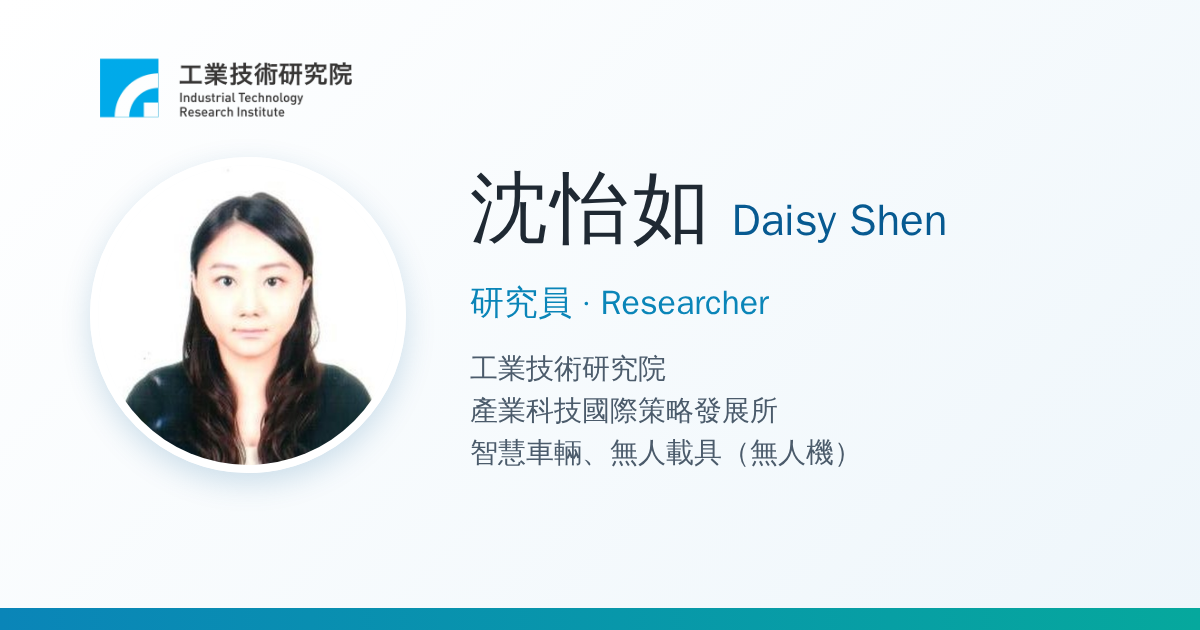
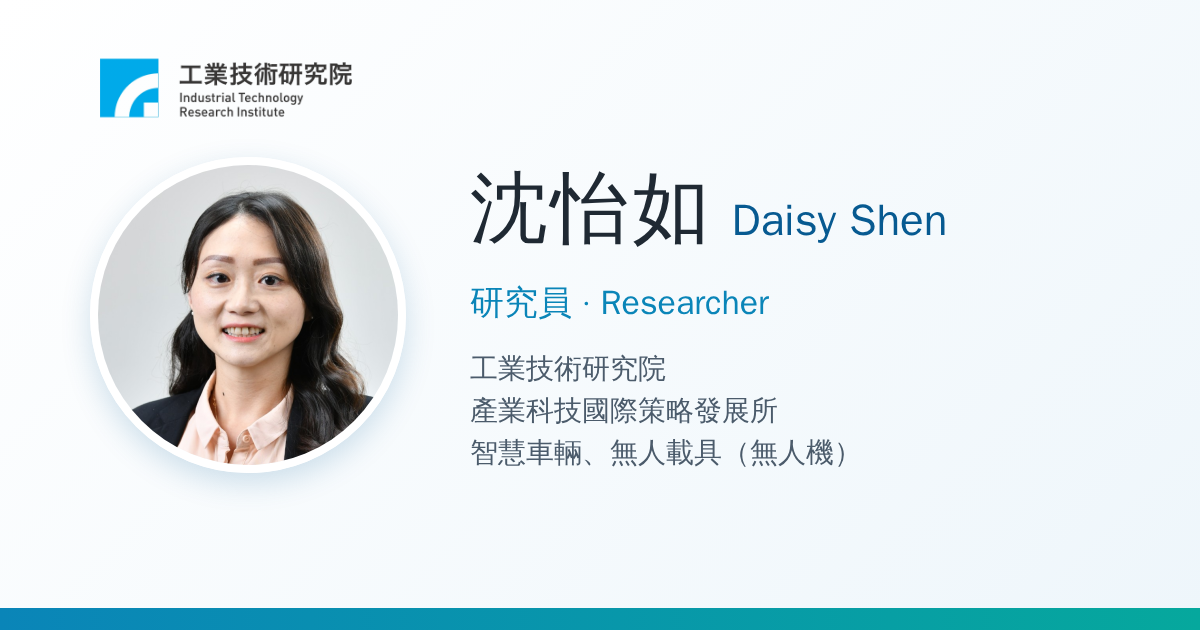
Replace portrait with new professional photo; refresh og image
Claude-Session: https://claude.ai/code/session_01NY8AqdpDoNgV5XpnomLSjT

Changed region(s): [[0.0617, 0.2413, 0.3392, 0.754]]

diff --git a/card/index.html b/card/index.html
@@ -35,7 +35,7 @@
     <p class="eyebrow">Industrial Technology Research Institute</p>
 
     <div class="identity">
-      <img class="portrait" id="portrait" src="portrait.png" alt="沈怡如 Daisy Shen 個人照片" width="404" height="404">
+      <img class="portrait" id="portrait" src="portrait.png" alt="沈怡如 Daisy Shen 個人照片" width="600" height="600">
       <div class="identity-copy">
         <h1 id="profile-name"><span id="name-main">沈怡如</span> <span id="name-sub">Daisy Shen</span></h1>
         <p class="role" id="role">研究員 · Researcher</p>
